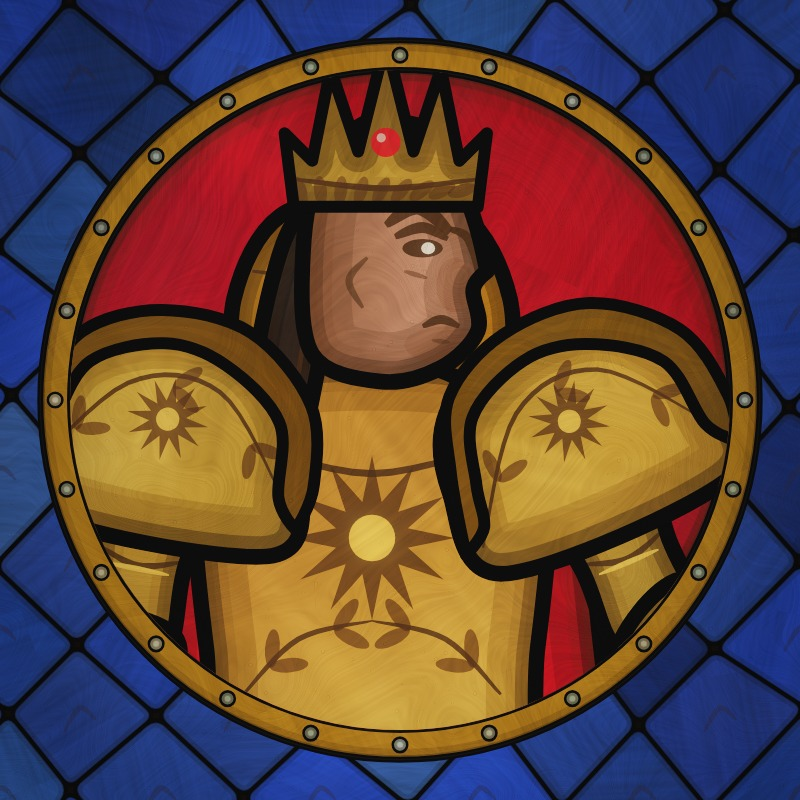
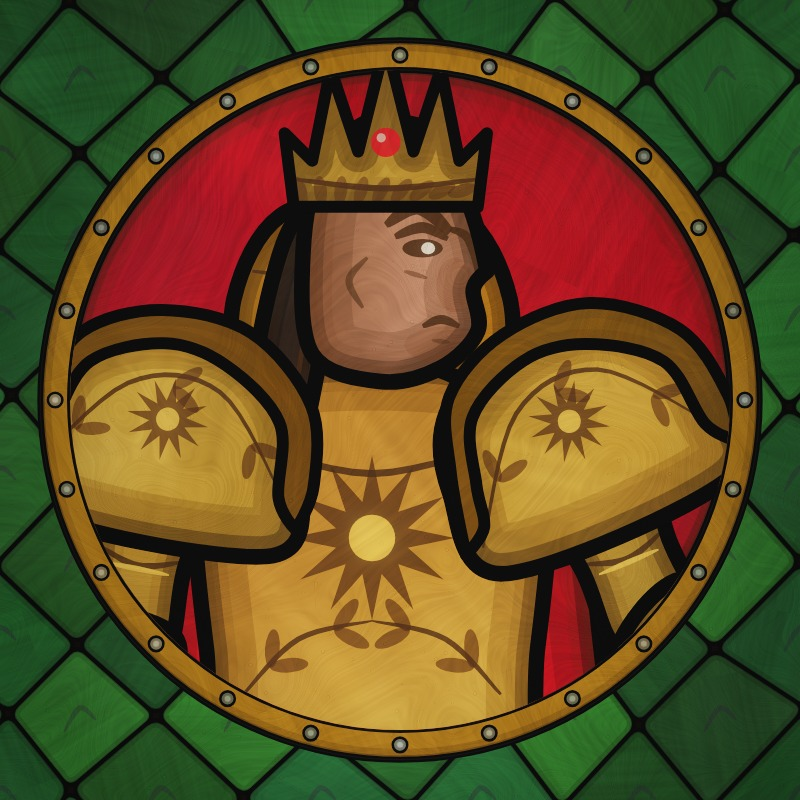
Channel art for Glazier of Terra, in mixed jewel colours
Claude-Session: https://claude.ai/code/session_01G7HLYnDi2K7Z9GxQvY36qh

diff --git a/shorts/brand/brand.js b/shorts/brand/brand.js
@@ -7,7 +7,7 @@ import { ANGEL, ANGEL_PAL, WINGS } from './angel.js';
 import { hash } from '/core/lib.js';
 
 const A = new URLSearchParams(location.search).get('a') || 'pfp1';
-const NAME = 'THE GLASS IMPERIUM', TAG = 'Warhammer 40,000 lore, told in stained glass';
+const NAME = 'GLAZIER OF TERRA', TAG = 'Warhammer 40,000 lore, told in stained glass';
 const [W, H] = A.startsWith('pfp') ? [800, 800] : [2560, 1440];
 const cv = document.getElementById('gl'); cv.width = W; cv.height = H; const comp = makeComp(cv);
 const mk = () => { const c = document.createElement('canvas'); c.width = W; c.height = H; return c; };
@@ -15,12 +15,14 @@ const L = { G: mk(), S: mk(), R: mk(), O: mk(), P: mk() }, C = {}; for (const k 
 await document.fonts.load('600 40px Cinzel'); await document.fonts.load('40px "IM Fell English"');
 const P = new Pass(C.G, C.S), I = new DOMMatrix();
 
-function lozengeField(x0, y0, x1, y1, d, seed) {   // cobalt quarries with painted curls
+// quarry colours: a mixed jewel window, or one hue
+const PAL = { jewel: [COL.ruby, COL.green2, COL.cobalt, '#8a5a18', COL.purple2, COL.ruby2], ruby: [COL.ruby, COL.ruby2, '#7a0c16'], green: [COL.green2, '#1f5226', COL.green], amber: ['#a0681c', '#8a5a18', '#6e4612'] };
+function lozengeField(x0, y0, x1, y1, d, seed, pal = PAL.jewel) {   // quarries with painted curls
   for (let b = Math.floor(y0 / d) - 1; b <= y1 / d + 1; b++) for (let a = Math.floor(x0 / d) - 1; a <= x1 / d + 1; a++) {
     if ((a + b) & 1) continue;
     const J = (k, m) => [k * d + (hash(k * 12.9 + m * 78.2 + seed) - .5) * d * .3, m * d + (hash(k * 39.3 + m * 11.1 + seed) - .5) * d * .3];
     const h = hash(a * 3.3 + b * 7.9 + seed);
-    P.piece(softPoly([J(a - 1, b), J(a, b - 1), J(a + 1, b), J(a, b + 1)], .12), h < .1 ? COL.blue2 : h < .2 ? COL.deepblue : COL.cobalt, { id: 30000 + a * 131 + b, lead: 4, mat: false, edge: 6,
+    P.piece(softPoly([J(a - 1, b), J(a, b - 1), J(a + 1, b), J(a, b + 1)], .12), pal[Math.floor(h * pal.length)], { id: 30000 + a * 131 + b, lead: 4, mat: false, edge: 6,
       paint: g => brush(g, [[a * d - d * .2, b * d + d * .15], [a * d, b * d - d * .15], [a * d + d * .2, b * d]], d * .07, { color: 'rgba(30,24,40,.4)' }) });
   }
 }
@@ -39,15 +41,15 @@ function ground(x, y, r, col, id) { P.setTransform(I); P.piece(new Path2D(`M${x 
 
 C.S.fillStyle = '#2b2622'; C.S.fillRect(0, 0, W, H);
 if (A === 'pfp1') {   // a legion helm in a roundel
-  lozengeField(0, 0, W, H, 80, 3); roundel(400, 400, 330, COL.deepblue, 100);
+  lozengeField(0, 0, W, H, 80, 3, PAL.ruby); roundel(400, 400, 330, COL.deepblue, 100);
   inside(400, 400, 330, () => { helm2(P, I, 400, 410, COL.white, 200, 9.5, '#7fdc4a'); });
 } else if (A === 'pfp2') {   // the crowned Emperor, head and shoulders
-  lozengeField(0, 0, W, H, 80, 5); roundel(400, 400, 330, COL.ruby2, 300);
+  lozengeField(0, 0, W, H, 80, 5, PAL.green); roundel(400, 400, 330, COL.ruby2, 300);
   inside(400, 400, 330, () => drawRig(P, I.translate(372, 860).scale(4.6), FATHER2, POSE.fstand, FATHER2_PAL, { id: 400, face: 'stern' }));
 } else {   // banners: a glass band across the stone, three roundels and the name
   const top = 420, bot = 1020;
   P.setTransform(I); P.surf(new Path2D(`M0 ${top - 36} H${W} V${bot + 36} H0 Z`), '#6e6556');
-  P.save(); const band = new Path2D(`M0 ${top} H${W} V${bot} H0 Z`); P.g.clip(band); P.s.clip(band); lozengeField(0, top, W, bot, 64, 9); P.restore(); P.setTransform(I);
+  P.save(); const band = new Path2D(`M0 ${top} H${W} V${bot} H0 Z`); P.g.clip(band); P.s.clip(band); lozengeField(0, top, W, bot, 64, 9, A === 'banner1' ? PAL.jewel : PAL.amber); P.restore(); P.setTransform(I);
   P.lead(new Path2D(`M0 ${top} H${W} V${bot} H0 Z`), 8);
   const cx = W / 2, r = 230;
   if (A === 'banner1') {   // Emperor | name | Horus
@@ -56,7 +58,7 @@ if (A === 'pfp1') {   // a legion helm in a roundel
     scroll(cx, 690, 1180, 190, NAME, 104, 700); scroll(cx, 850, 900, 70, TAG.toUpperCase(), 30, 710);
   } else {   // the Angel at the centre, helms either side
     roundel(cx, 720, r, COL.cobalt, 800); inside(cx, 720, r, () => { ground(cx, 720, r, COL.green2, 810); drawRig(P, I.translate(cx, 735).scale(1.15), ANGEL, { ...POSE.raise, ...WINGS.spread }, ANGEL_PAL, { id: 820, face: 'calm' }); });
-    scroll(cx - 560, 660, 620, 130, 'THE GLASS', 84, 900); scroll(cx + 560, 660, 620, 130, 'IMPERIUM', 84, 910);
+    scroll(cx - 560, 660, 620, 130, 'GLAZIER', 84, 900); scroll(cx + 560, 660, 620, 130, 'OF TERRA', 84, 910);
     scroll(cx, 980, 980, 66, TAG.toUpperCase(), 28, 920);
     for (let k = 0; k < 3; k++) { helm2(P, I, cx - 760 + k * 110, 820, COL.white, 940 + k * 5, 3.0); helm2(P, I, cx + 540 + k * 110, 820, COL.teal, 970 + k * 5, 3.0, '#ff5a2a'); }
   }
